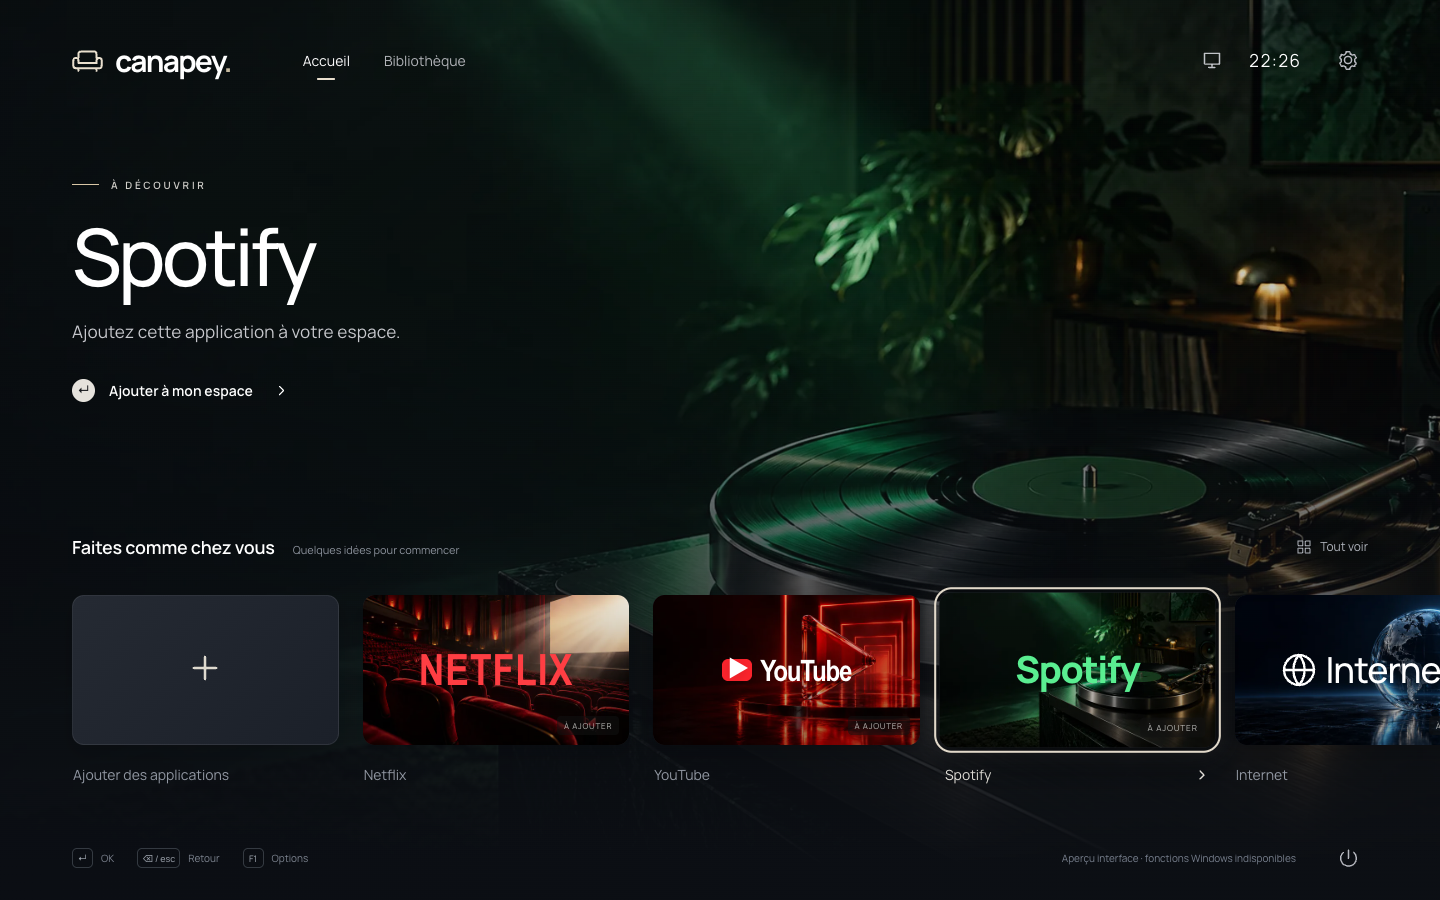
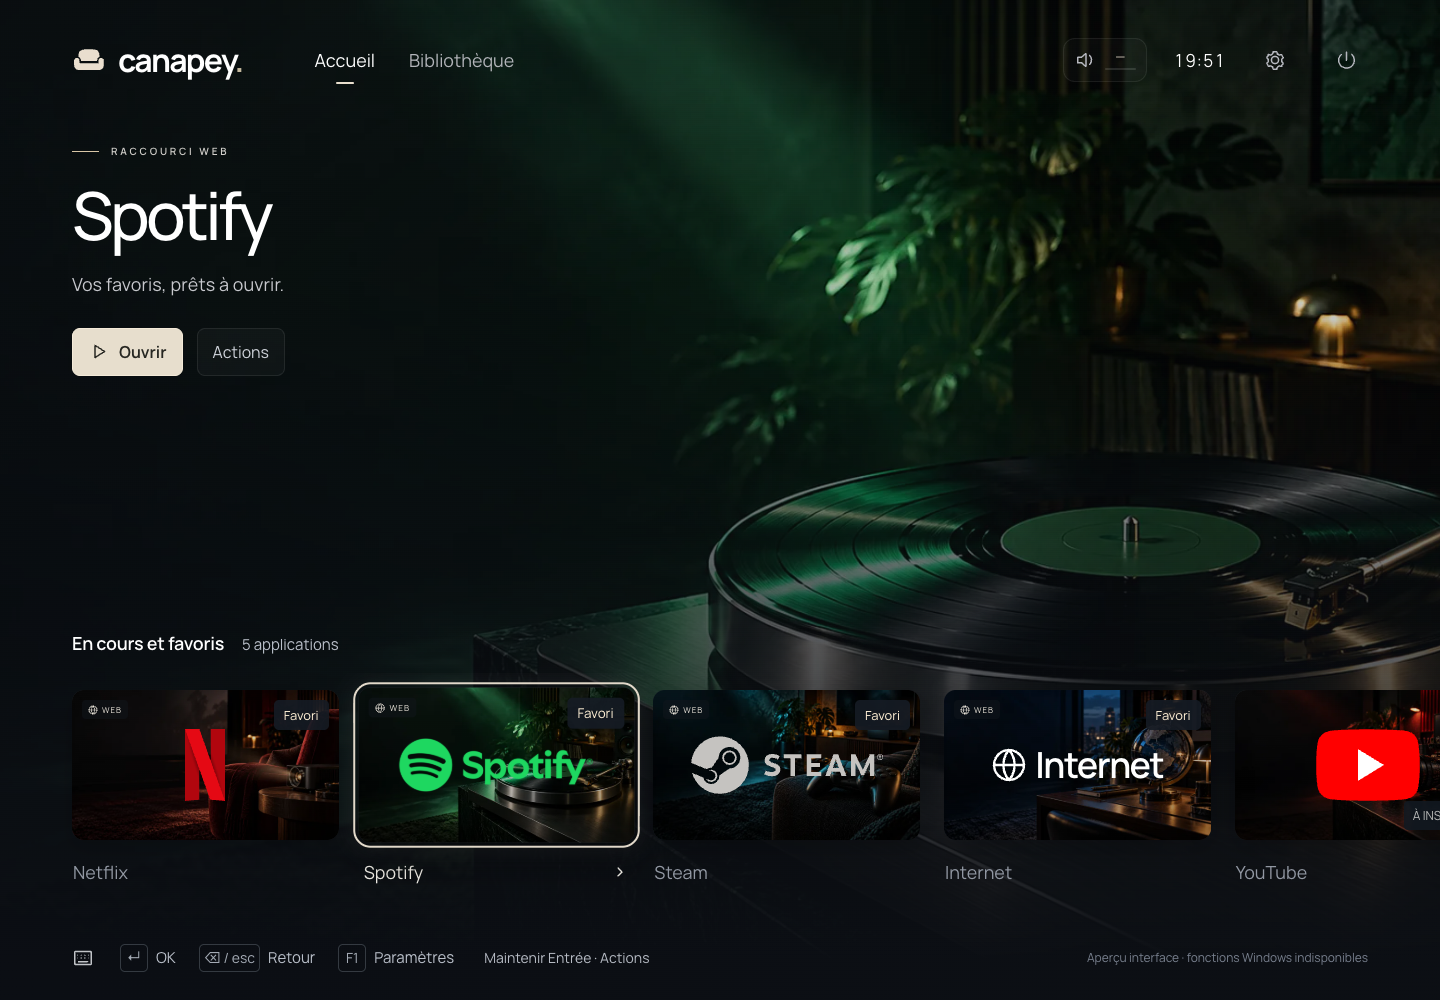
docs: refresh README screenshots for the 0.6.0 interface
Capture the current home, library, ambience, settings and remote setup screens with a documented sample web-shortcut library.

Update gallery captions and remote routing guidance, and retain a repeatable isolated-browser capture script.

diff --git a/scripts/capture-readme.js b/scripts/capture-readme.js
@@ -1,0 +1,52 @@
+// Run with playwright-cli run-code against Vite in an isolated Chrome session.
+// Real browser preview, sample web shortcuts only; no native IPC/hardware mocks.
+async (page) => {
+  const errors = [];
+  page.on('pageerror', error => errors.push(error.message));
+  await page.setViewportSize({width:1440,height:1000});
+  await page.evaluate(async () => {
+    const {defaults} = await import('/src/lib/types.ts');
+    const config = defaults();
+    config.apps = [
+      ['Netflix','netflix','https://www.netflix.com/'],
+      ['Spotify','spotify','https://open.spotify.com/'],
+      ['Steam','steam','https://store.steampowered.com/'],
+      ['Internet','internet','https://www.wikipedia.org/'],
+    ].map(([name,theme,value]) => ({id:`readme-${theme}`,name,theme,target:{kind:'uri',value,args:[],workingDir:null},card:null,background:null,icon:null,source:'README sample web shortcut'}));
+    config.selectedId = 'readme-netflix';
+    config.settings.library.favorites = ['readme-netflix','readme-spotify','readme-steam','readme-internet'];
+    config.settings.motion = false;
+    config.settings.sound = false;
+    localStorage.setItem('canapey-ui-preview-v1', JSON.stringify(config));
+  });
+  await page.reload();
+  await page.locator('.launcher.ready').waitFor();
+  const capture = async path => {
+    await page.evaluate(async () => {
+      await document.fonts.ready;
+      await Promise.all(Array.from(document.images).map(img => img.decode().catch(() => {})));
+    });
+    await page.waitForTimeout(300);
+    await page.screenshot({path,animations:'disabled'});
+  };
+  await capture('docs/images/home.png');
+  await page.getByRole('navigation',{name:'Navigation principale'}).getByRole('button',{name:'Bibliothèque',exact:true}).click();
+  await page.getByRole('searchbox',{name:'Rechercher dans la bibliothèque'}).waitFor();
+  await capture('docs/images/library.png');
+  await page.getByRole('navigation',{name:'Navigation principale'}).getByRole('button',{name:'Accueil',exact:true}).click();
+  await page.locator('.app-card').filter({hasText:'Spotify'}).focus();
+  await capture('docs/images/ambience.png');
+  await page.getByRole('button',{name:'Paramètres',exact:true}).click();
+  await page.getByRole('heading',{name:'Affichage et ambiance',exact:true}).waitFor();
+  await capture('docs/images/settings.png');
+  await page.getByRole('button',{name:'Manettes et télécommandes',exact:true}).click();
+  await page.getByRole('button',{name:'Télécommande',exact:true}).click();
+  await page.getByRole('button',{name:'Configurer les boutons essentiels',exact:true}).click();
+  await page.getByRole('button',{name:'Apprendre la touche',exact:true}).waitFor();
+  await capture('docs/images/remote-setup.png');
+  await page.setViewportSize({width:390,height:844});
+  await capture('output/playwright/readme-remote-mobile.png');
+  if (await page.evaluate(() => document.documentElement.scrollWidth > innerWidth)) throw new Error('Mobile horizontal overflow');
+  if (errors.length) throw new Error(errors.join('\n'));
+  return {screenshots:5,desktop:'1440x1000',mobileCheck:'390x844',errors,mode:'Browser preview with sample web shortcuts'};
+}

diff --git a/README.md b/README.md
@@ -29,8 +29,8 @@
 <br>
 
 <p align="center">
-  <img src="docs/images/home.png" alt="Canapey home screen with an alpine backdrop, a welcome message and a horizontal carousel of app suggestions" width="100%">
-  <br><sub><strong>Make yourself at home.</strong> A full-screen carousel, cinematic backdrops and your favourite apps within reach.</sub>
+  <img src="docs/images/home.png" alt="Canapey 0.6.0 home screen with Netflix selected, favorite cards and the YouTube installation card" width="100%">
+  <br><sub><strong>Make yourself at home.</strong> Your favourites, clear Open and Actions controls, and cinematic backdrops.</sub>
 </p>
 
 <p align="center">
@@ -48,17 +48,27 @@
 <table>
   <tr>
     <td width="50%" valign="top">
-      <img src="docs/images/library.png" alt="Canapey library showing a grid of app suggestions, including Netflix, YouTube, Spotify, Internet and Steam" width="100%">
-      <p><strong>Your space, at a glance.</strong><br><sub>Move from the home carousel to the library grid without losing your selection.</sub></p>
+      <img src="docs/images/library.png" alt="Canapey library with search, category counts, sorting, favorite web shortcuts and the YouTube installation card" width="100%">
+      <p><strong>Your space, at a glance.</strong><br><sub>Find your apps with search, favourites, categories and sorting.</sub></p>
     </td>
     <td width="50%" valign="top">
-      <img src="docs/images/ambience.png" alt="The Spotify suggestion selected in Canapey, with a green-lit turntable backdrop" width="100%">
+      <img src="docs/images/ambience.png" alt="A Spotify web shortcut selected in Canapey, with a green-lit turntable backdrop" width="100%">
       <p><strong>A different mood for every app.</strong><br><sub>Bundled artwork sets the scene. Custom cards and backgrounds make it yours.</sub></p>
+    </td>
+  </tr>
+  <tr>
+    <td width="50%" valign="top">
+      <img src="docs/images/settings.png" alt="Canapey settings with five sections, interface scaling and four ambience choices" width="100%">
+      <p><strong>Settle into your own setup.</strong><br><sub>Five settings sections bring display, apps, devices, system and help together.</sub></p>
+    </td>
+    <td width="50%" valign="top">
+      <img src="docs/images/remote-setup.png" alt="The first step of Canapey’s ten-button remote setup guide, assigning Home to return to Canapey" width="100%">
+      <p><strong>One button at a time.</strong><br><sub>The guided remote setup walks through Home, navigation, OK, Back and volume.</sub></p>
     </td>
   </tr>
 </table>
 
-<sub>Actual browser UI previews at 1440 × 900. The interface is currently in French; native Windows actions are unavailable in this preview. Cards marked “À ajouter” are suggestions to add, not detected installations. Screenshots show the development interface and may differ from a released installer.</sub>
+<sub>Actual 0.6.0 browser UI captures at 1440 × 1000, taken on 29 October 2026. The French interface uses a sample library of web shortcuts; these are not detected Windows installations. The YouTube card marked “À installer” opens the installation flow. Native Windows actions are unavailable in browser preview. Captures can be reproduced with <code>scripts/capture-readme.js</code>.</sub>
 
 ## Why Canapey
 
@@ -133,7 +143,7 @@ Settings now have five sections: **Affichage et ambiance**, **Applications**, **
 
 In **Settings → Manettes et télécommandes → Télécommande**, choose **Configurer les boutons essentiels** for a guided setup of Home, directions, OK, Back and volume. Each save advances to the next button; skipped buttons can be configured later, and resuming starts at the first unconfigured button. For custom bindings, click a button on the real Skip 1s photo, press that button on the remote, choose an action, then **Enregistrer**. Map navigation, Home, app launch/resume, volume, playback and launcher controls independently. The **Couleurs** view exposes the four ring color commands. A/B/C activity selection and the color-mode switch remain managed by the Skip 1s. Change or remove individual bindings from the same page.
 
-Canapey learns the keyboard input received from any receiver or keyboard; it does not depend on Flirc or reprogram infrared signals. **Activer dans tout Windows** is available for every action and enabled for new bindings: ordinary keys, navigation, numpad and media keys can be reserved while Canapey stays running. Interface actions restore Canapey before executing. The same physical keyboard keys are affected and may lose their usual behavior in other applications. Reserved system keys and conflicts are reported when saving. Existing local bindings stay local until you enable the option and save them again.
+Canapey learns the keyboard input received from any receiver or keyboard; it does not depend on Flirc or reprogram infrared signals. **Activer dans tout Windows** is available for every action and enabled for new bindings: ordinary keys, navigation, numpad and media keys can be reserved while Canapey stays running. OK, arrows and Back target the active application; only Home returns to Canapey. Launcher-only panels stay inactive while another application has focus. The same physical keyboard keys are affected and may lose their usual behavior in other applications. Reserved system keys and conflicts are reported when saving. Existing local bindings stay local until you enable the option and save them again.
 
 A conflicting shortcut or failed save preserves previous bindings. Capture stops with **Annuler l’écoute**, loss of focus, leaving the page, or after 15 seconds; Esc itself can be learned. Browser preview demonstrates association but cannot register Windows shortcuts. Real Skip 1s / Flirc behavior, media control and foreground focus still need testing on Windows. See [remote setup and validation](docs/REMOTE.md).
 
